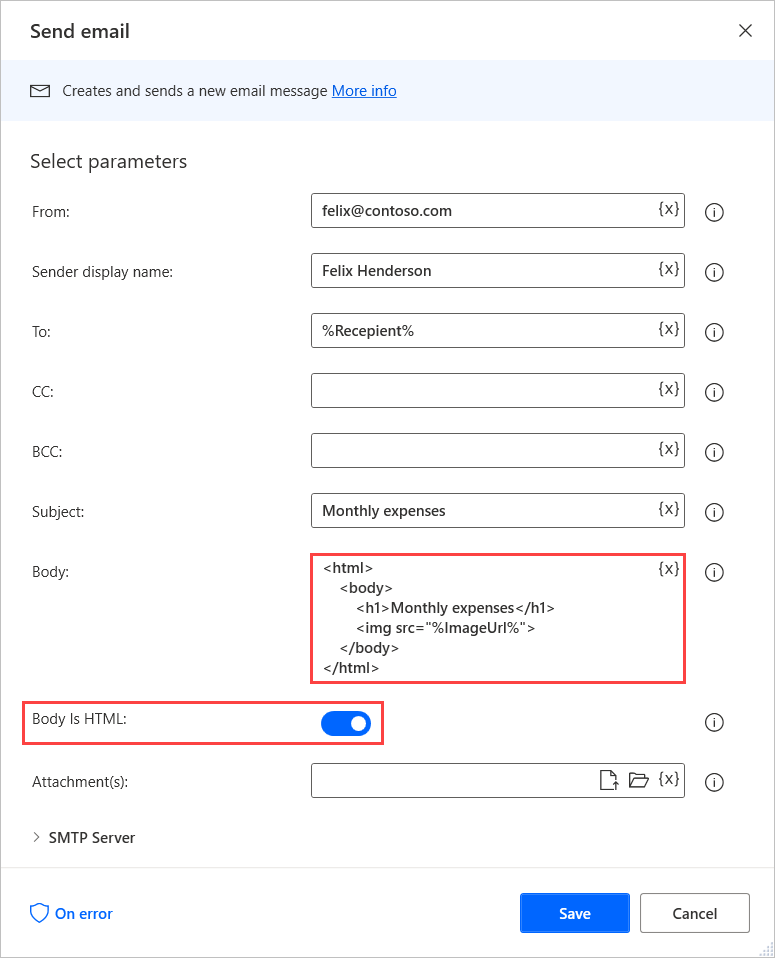
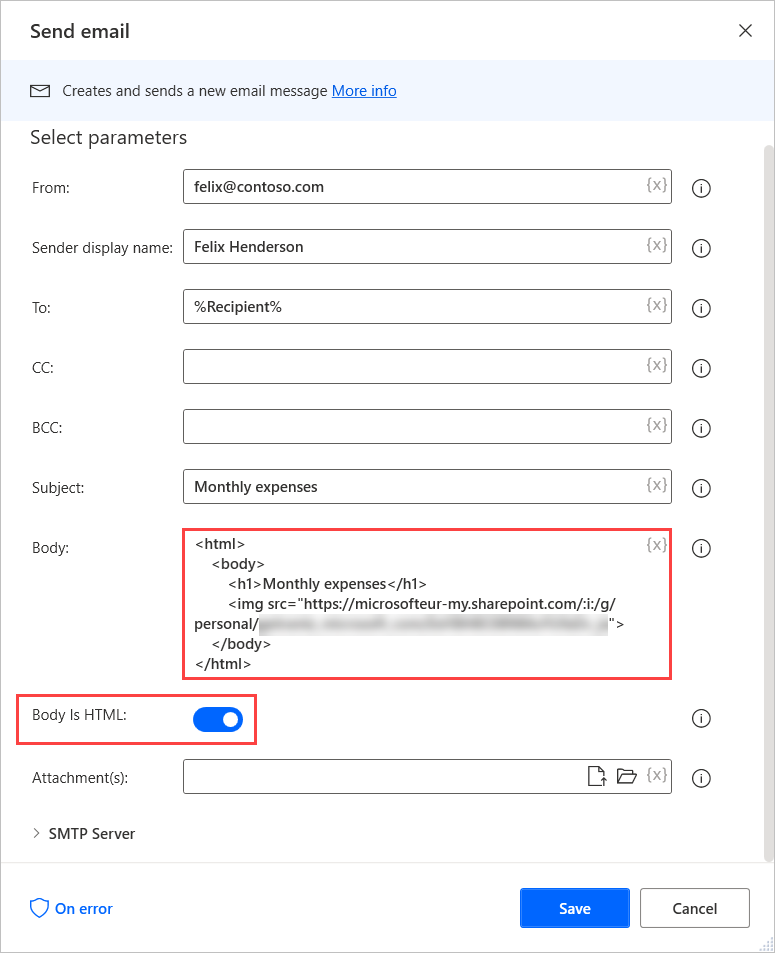
Updates in Add images to emails

diff --git a/articles/desktop-flows/how-to/add-images-email-messages.md b/articles/desktop-flows/how-to/add-images-email-messages.md
@@ -33,7 +33,7 @@ Apart from attaching images to emails, Power Automate Desktop allows you to embe
 To embed an image, check the **Body is HTML** option in the appropriate email action and populate the **Body** field with the following code:
 
 > [!NOTE]
-> After copying the following code, replace the **image-url** placeholder with the URL of the image you want to embed or a variable containing it. In the following example, the URL is defined by a variable named **ImageUrl**.
+> After copying the following code, replace the **image-url** placeholder with the URL of the image you want to embed or a variable containing it.
 
 ``` HTML
 <html>
